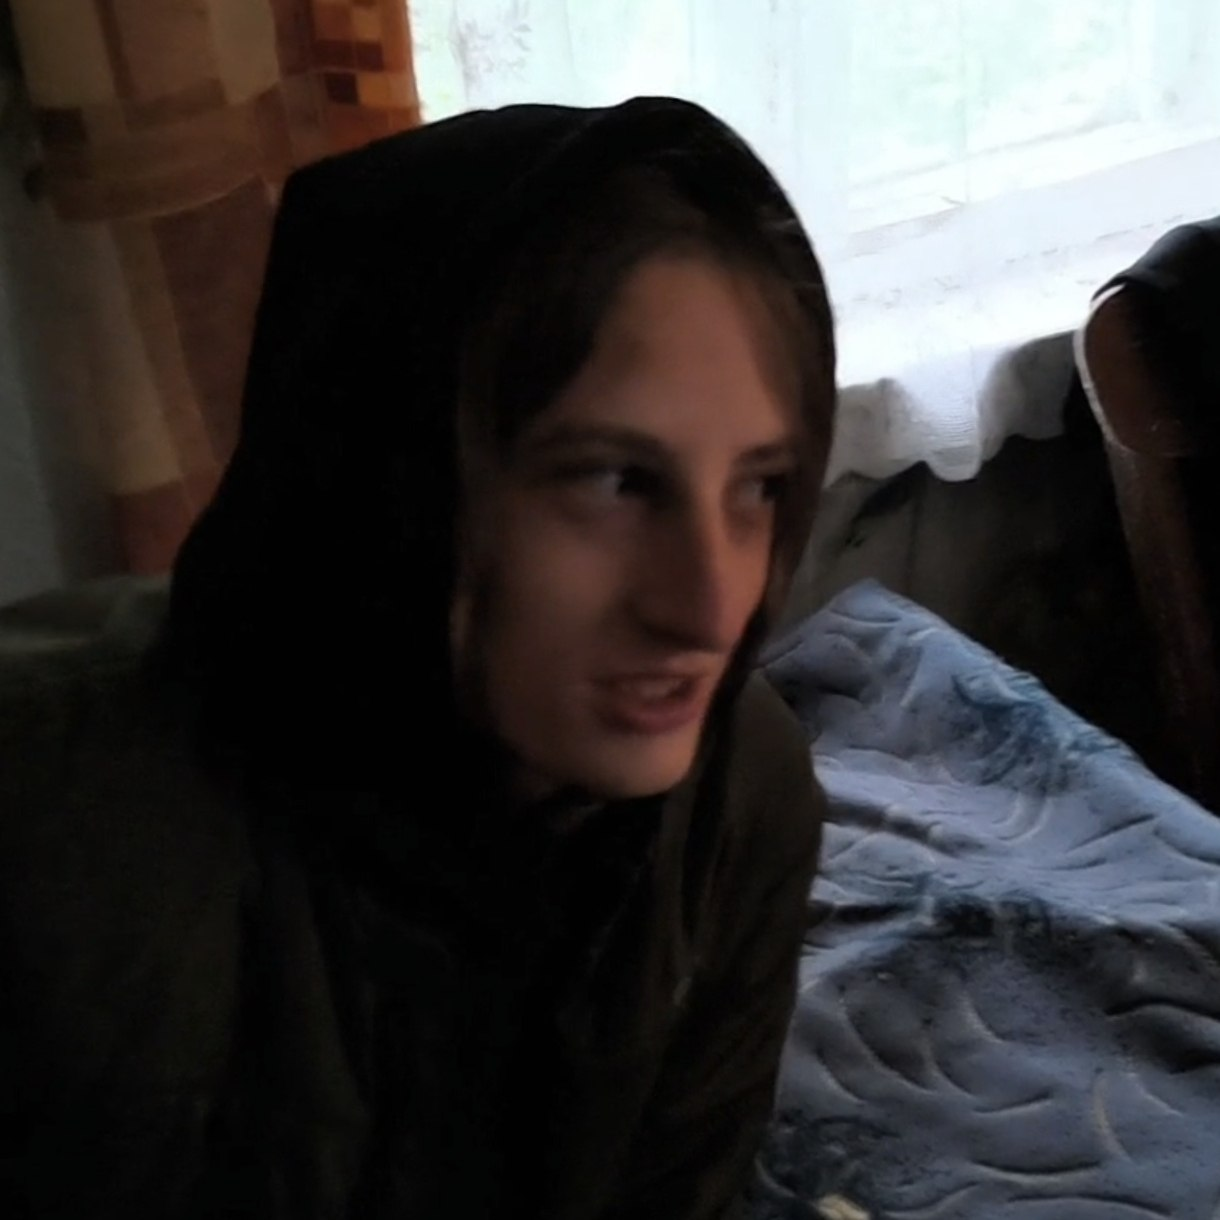
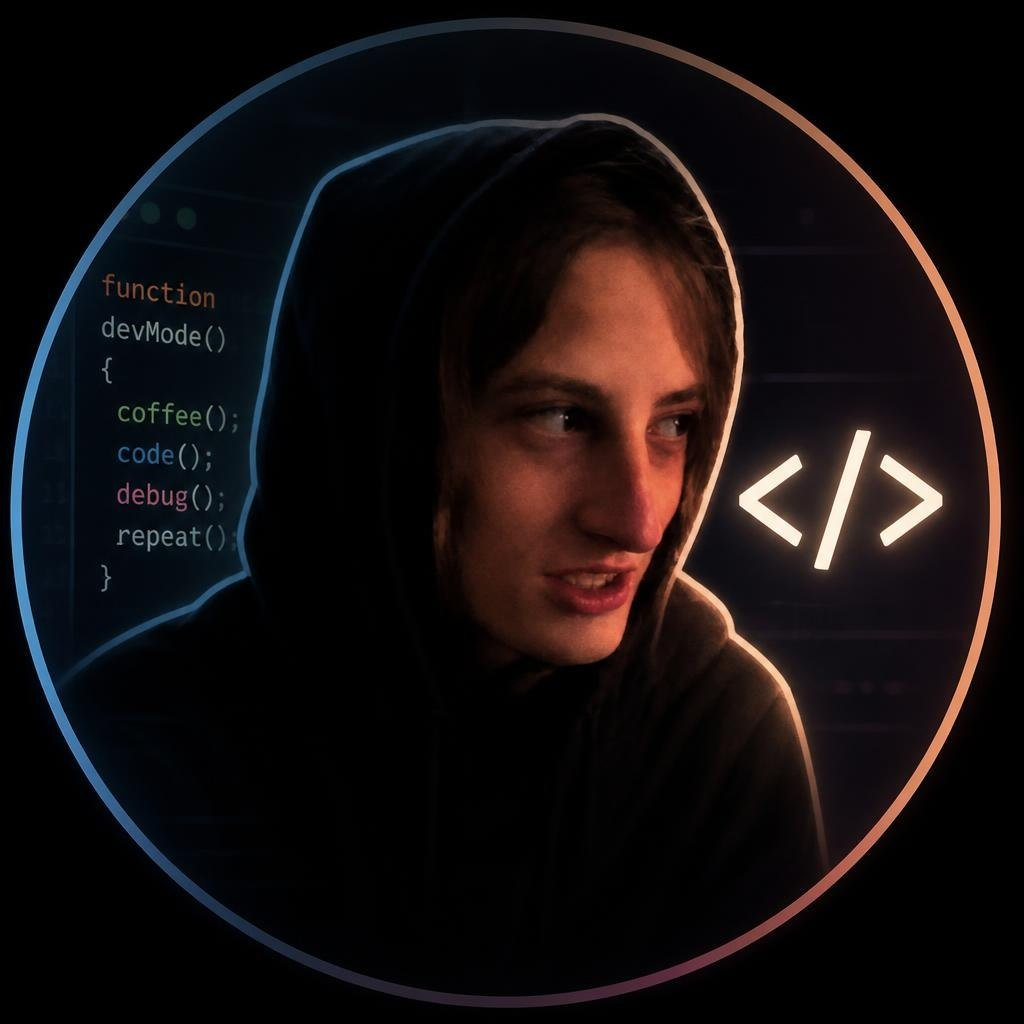
1.2

diff --git a/src/app/[locale]/(composited)/(home)/page.tsx b/src/app/[locale]/(composited)/(home)/page.tsx
@@ -66,7 +66,7 @@ export default function Home() {
             </section>
             <Anchor id="features" className="top-12 lg:-top-48" />
             <SpotlightSection
-                className="bg-black text-white justify-between flex lg:px-24 lg:py-36 lg:gap-4 mb-16 flex-col w-full-no-offset
+                className="bg-amber-900 text-white justify-between flex lg:px-24 lg:py-36 lg:gap-4 mb-16 flex-col w-full-no-offset
                 lg:flex-row rounded-4xl lg:rounded-6xl lg:h-[28rem] mt-64 sm:p-12 sm:pt-16 gap-12 p-4 pt-12 mx-offset md:o-16"
             >
                 <div className="flex flex-col gap-4 justify-center">
@@ -99,9 +99,9 @@ export default function Home() {
                                     <Link
                                         href="/#more"
                                         role="button"
-                                        className="w-32 h-32 aspect-square hover:bg-primary-500 flex-col hover:text-primary-50
-                                        rounded-full bg-white text-primary-500 flex justify-center items-center transition-colors
-                                        active:bg-primary-400 active:text-primary-50 duration-300 ease-in-out"
+                                        className="w-32 h-32 aspect-square hover:bg-amber-600 flex-col hover:text-amber-50
+                                        rounded-full bg-white text-amber-600 flex justify-center items-center transition-colors
+                                        active:bg-amber-700 active:text-amber-50 duration-300 ease-in-out"
                                     >
                                         <SquareArrowDown size={60} iconStyle="Bold" />
                                     </Link>
@@ -110,7 +110,7 @@ export default function Home() {
                             )
                         },
                     ]}
-                    className="lg:w-[32rem] h-fit md:h-[36rem] lg:-translate-y-96 rounded-3xl bg-primary-100 text-black"
+                    className="lg:w-[32rem] h-fit lg:-translate-y-96 rounded-3xl bg-amber-50 text-amber-900"
                     leftOffset={24}
                 />
             </SpotlightSection>
@@ -142,7 +142,7 @@ export default function Home() {
                                 className="flex flex-col justify-center gap-1 text-center md:text-left md:w-7/12 h-fit">
                                 {Icon && (
                                     <div
-                                        className="flex justify-center p-4 rounded-full bg-primary-500 text-white w-min
+                                        className="flex justify-center p-4 rounded-full bg-amber-600 text-white w-min
                                         h-min items-center mx-auto md:mx-0 mb-4"
                                     >
                                         <Icon iconStyle="Bold" size={40} />

diff --git a/src/app/[locale]/(composited)/_components/locale-toggle.tsx b/src/app/[locale]/(composited)/_components/locale-toggle.tsx
@@ -12,7 +12,7 @@ export default function LocaleToggle({currentLocale}: {currentLocale: string}) {
     return (
         <div className="flex gap-16">
             <div className="flex items-center gap-4">
-                <span className="text-xs font-bold tracking-widest text-white bg-primary-500 px-2 py-1 rounded-full">BETA</span>
+                <span className="text-xs font-bold tracking-widest text-amber-900 bg-amber-300 px-2 py-1 rounded-full">BETA</span>
                 {localeConfig.locales.map((locale, i) => {
                     const localePath = `/${locale}${pathWithoutLocale}`;
                     return (
@@ -20,7 +20,7 @@ export default function LocaleToggle({currentLocale}: {currentLocale: string}) {
                             <Link
                                 href={localePath}
                                 className={"uppercase" +
-                                    (locale === currentLocale ? " underline decoration-4 underline-offset-8 text-primary-500"
+                                    (locale === currentLocale ? " underline decoration-4 underline-offset-8 text-amber-700"
                                         : ""
                                     )}
                                 data-cursor-text={locale.toUpperCase()}
@@ -28,7 +28,7 @@ export default function LocaleToggle({currentLocale}: {currentLocale: string}) {
                                 {locale}
                             </Link>
                             {i < localeConfig.locales.length - 1 &&
-                                <div className="bg-neutral-300 rounded h-8 w-1"/>
+                                <div className="bg-amber-400/50 rounded h-8 w-1"/>
                             }
                         </Fragment>
                     )

diff --git a/src/app/[locale]/(composited)/_components/header-menu.tsx b/src/app/[locale]/(composited)/_components/header-menu.tsx
@@ -19,19 +19,19 @@ export default function HeaderMenu({children}: { children: ReactNode }) {
             setOpen
         }}>
             <div className="md:hidden cursor-pointer" onClick={() => setOpen(true)}>
-                <Image src={OpenIcon} alt="Open menu" width={32} height={32} />
+                <Image src={OpenIcon} alt="Open menu" width={32} height={32} className="invert-[.3] sepia-[.4] hue-rotate-[-10deg] saturate-[2]" />
             </div>
             <nav
                 className={`flex md:opacity-100 items-center md:bg-transparent fixed md:static gap-8 md:text-2xl text-4xl 
-                inset-0 w-screen md:w-auto h-screen md:h-auto flex-col md:flex-row justify-center bg-white text-center z-10
+                inset-0 w-screen md:w-auto h-screen md:h-auto flex-col md:flex-row justify-center bg-amber-50 text-center z-10
                 ${open ? 'translate-y-0' : '-translate-y-full'} md:translate-y-0 transition-transform duration-700 ease-in-out`}
             >
                 <div className="absolute top-4 right-8 md:hidden cursor-pointer" onClick={() => setOpen(false)}>
-                    <Image src={CloseIcon} alt="Close menu" width={32} height={32} />
+                    <Image src={CloseIcon} alt="Close menu" width={32} height={32} className="invert-[.3] sepia-[.4] hue-rotate-[-10deg] saturate-[2]" />
                 </div>
                 {children}
             </nav>
-             <div className={`md:hidden ${open ? 'translate-y-full' : '-translate-y-full'} bg-primary-100 w-screen 
+             <div className={`md:hidden ${open ? 'translate-y-full' : '-translate-y-full'} bg-amber-50 w-screen 
              transition-all duration-700 ease-in-out h-screen inset-0 absolute`} />
         </MenuContext.Provider>
     )

diff --git a/src/app/[locale]/_components/cursor.tsx b/src/app/[locale]/_components/cursor.tsx
@@ -58,7 +58,7 @@ export default function Cursor({smoothnessCoefficient = 0.9}: CursorProps) {
                 // Light
                 const linkParent = hoveredElement.current?.closest("button, a");
                 const isLight = (cursorStyle === "pointer" &&
-                    linkParent?.className.includes("bg-primary-500")
+                    linkParent?.className.includes("bg-amber-600")
                 ) || cursorStyle === "grab";
                 setLight(isLight);
 
@@ -102,7 +102,7 @@ export default function Cursor({smoothnessCoefficient = 0.9}: CursorProps) {
         <div className="fixed top-0 left-0 w-full h-full pointer-events-none z-50 cannot-hover:hidden">
             <div
                 className={`absolute transform -translate-x-1/2 -translate-y-1/2 rounded-full pointer-events-none
-                ${light ? "bg-primary-100" : "bg-primary-500"} transition-colors duration-300 ease-in-out`}
+                ${light ? "bg-amber-100" : "bg-amber-600"} transition-colors duration-300 ease-in-out`}
                 ref={trail}
             >
                 <div
@@ -110,7 +110,7 @@ export default function Cursor({smoothnessCoefficient = 0.9}: CursorProps) {
                     ref={pullText}
                 >
                     <span
-                        className={`text-sm font-bold ${light ? "text-primary-500" : "text-primary-100"} transition-colors duration-300 ease-in-out`}
+                        className={`text-sm font-bold ${light ? "text-amber-600" : "text-amber-100"} transition-colors duration-300 ease-in-out`}
                     >
                         {text}
                     </span>

diff --git a/src/app/[locale]/(composited)/_components/footer.tsx b/src/app/[locale]/(composited)/_components/footer.tsx
@@ -33,9 +33,9 @@ export default function Footer() {
                 <Link
                     href="#top"
                     role="button"
-                    className="group w-32 h-32 font-bold font-display aspect-square text-4xl overflow-hidden hover:bg-primary-500 flex-col
-                        hover:text-primary-50 rounded-full bg-primary-100 text-primary-500 flex justify-center items-center transition-colors
-                        active:bg-primary-400 active:text-primary-50 duration-300 ease-in-out min-w-max min-h-max"
+                    className="group w-32 h-32 font-bold font-display aspect-square text-4xl overflow-hidden hover:bg-amber-600 flex-col
+                        hover:text-amber-50 rounded-full bg-amber-100 text-amber-600 flex justify-center items-center transition-colors
+                        active:bg-amber-500 active:text-amber-50 duration-300 ease-in-out min-w-max min-h-max"
                 >
                     <div className="group-hover:-translate-y-32 transition-transform duration-300 ease-in-out">up</div>
                     <div className="translate-y-32 group-hover:-translate-y-5 transition-transform h-0 duration-300 ease-in-out flex items-center">

diff --git a/src/app/[locale]/_components/button.tsx b/src/app/[locale]/_components/button.tsx
@@ -9,8 +9,8 @@ export type ButtonProps = PropsWithChildren<{
 export default function Button({className, children, onClick, disabled}: ButtonProps) {
     return (
         <button
-            className={`rounded-full font-display font-bold text-2xl text-primary-500 hover:text-white py-4 px-8
-                hover:bg-primary-500 bg-primary-100 active:bg-primary-400 duration-300 ease-in-out transition-all
+            className={`rounded-full font-display font-bold text-2xl text-amber-700 hover:text-white py-4 px-8
+                hover:bg-amber-600 bg-amber-100 active:bg-amber-500 duration-300 ease-in-out transition-all
                 active:text-white disabled:opacity-50 disabled:pointer-events-none hover:scale-105 active:scale-95
                 ${className || ""}`}
             onClick={onClick}

diff --git a/src/app/[locale]/(composited)/_components/header.tsx b/src/app/[locale]/(composited)/_components/header.tsx
@@ -12,8 +12,9 @@ export default function Header() {
 
     return (
         <header
-            className="flex justify-between items-center mb-16 font-display font-bold text-2xl sticky top-0 py-4 md:py-8
-            bg-white px-8 md:px-16 z-40"
+            className="relative flex justify-between items-center mb-16 font-display font-bold text-2xl sticky top-0 py-4 md:py-8
+            bg-[url('/images/header-mobile.png')] md:bg-[url('/images/header-pc.png')] bg-cover bg-center bg-no-repeat px-8 md:px-16 z-40 text-amber-800
+            before:absolute before:inset-0 before:bg-gradient-to-r before:from-transparent before:via-amber-50/50 before:to-amber-100/90 before:pointer-events-none"
         >
             <LocaleToggle currentLocale={currentLocale}/>
             <HeaderMenu>

diff --git a/src/app/[locale]/(composited)/(home)/_components/team-member.tsx b/src/app/[locale]/(composited)/(home)/_components/team-member.tsx
@@ -31,7 +31,7 @@ export default function TeamMember({href, name, role, img, buttonText}: TeamMemb
             {href && (
                 <Link
                     className="can-hover:translate-y-28 group-hover:translate-y-0 transition-transform w-full py-4 md:py-6 text-xl
-                    md:text-2xl bg-primary-500 text-white rounded-xl active:bg-primary-400 active:text-white flex justify-center
+                    bg-amber-600 text-white rounded-xl active:bg-amber-700 active:text-white flex justify-center
                     items-center duration-300 ease-in-out"
                     href={href}
                     target="_blank"

diff --git a/src/app/[locale]/_components/link.tsx b/src/app/[locale]/_components/link.tsx
@@ -22,7 +22,7 @@ export default function Link(
 ) {
     const cls = underline ? (className || "") + " group" : className;
     const underlineEl = underline && (
-        <div className="w-full scale-x-0 group-hover:scale-x-100 h-1 mt-1 rounded-full bg-primary-500 transition-transform duration-300 ease-in-out" />
+        <div className="w-full scale-x-0 group-hover:scale-x-100 h-1 mt-1 rounded-full bg-amber-600 transition-transform duration-300 ease-in-out" />
     );
 
     if (isAnchorOrExternal(href)) {
